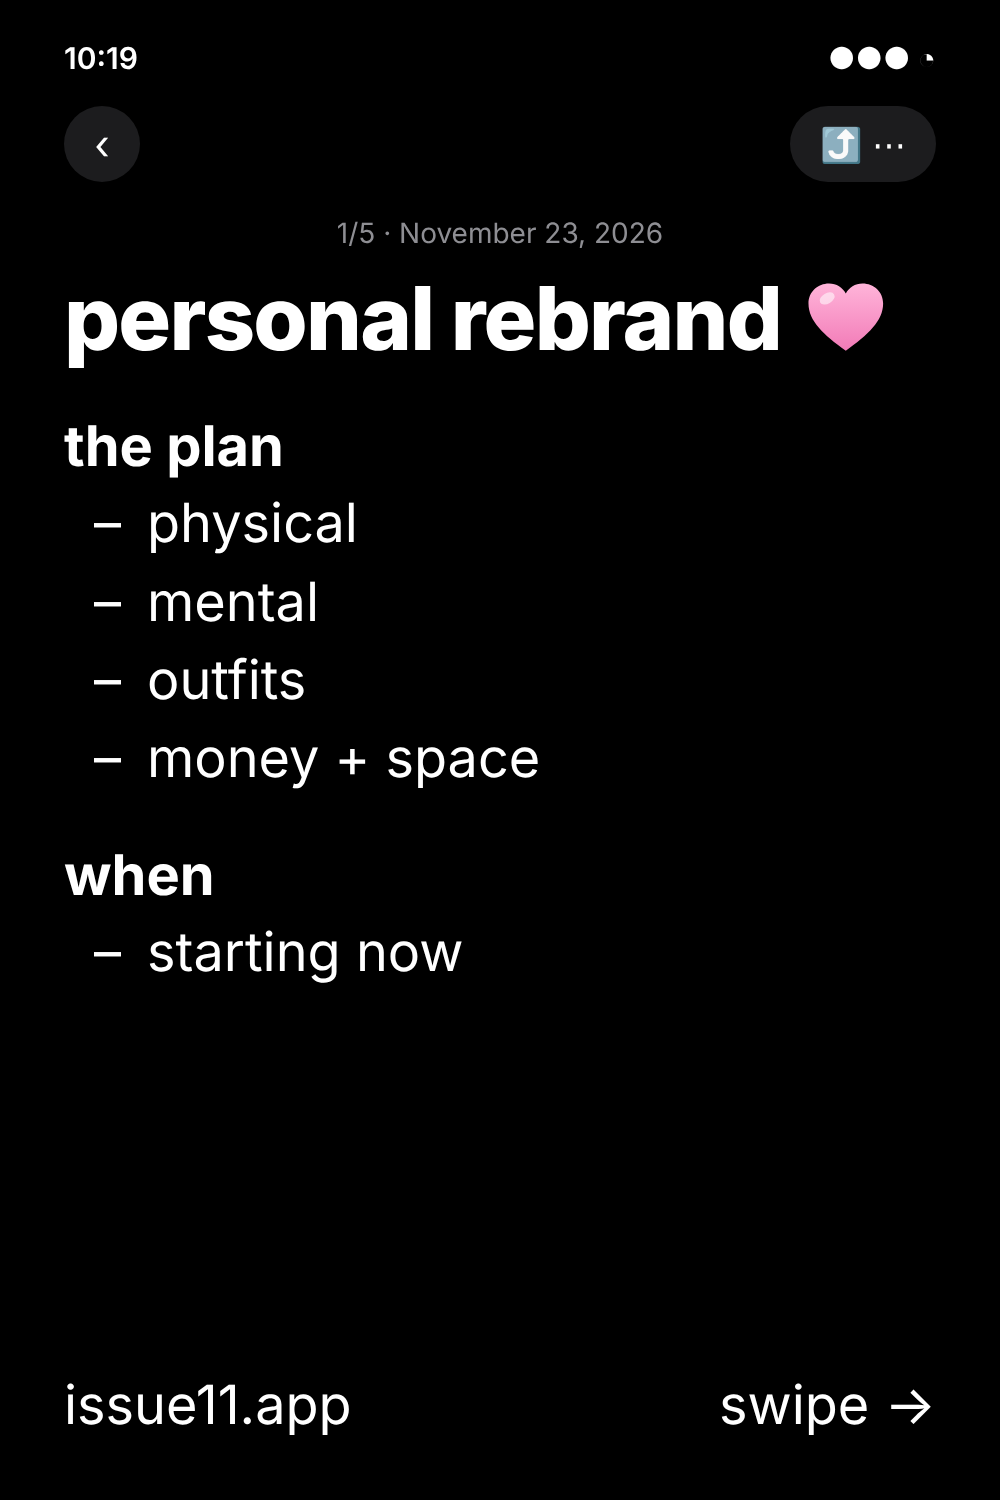
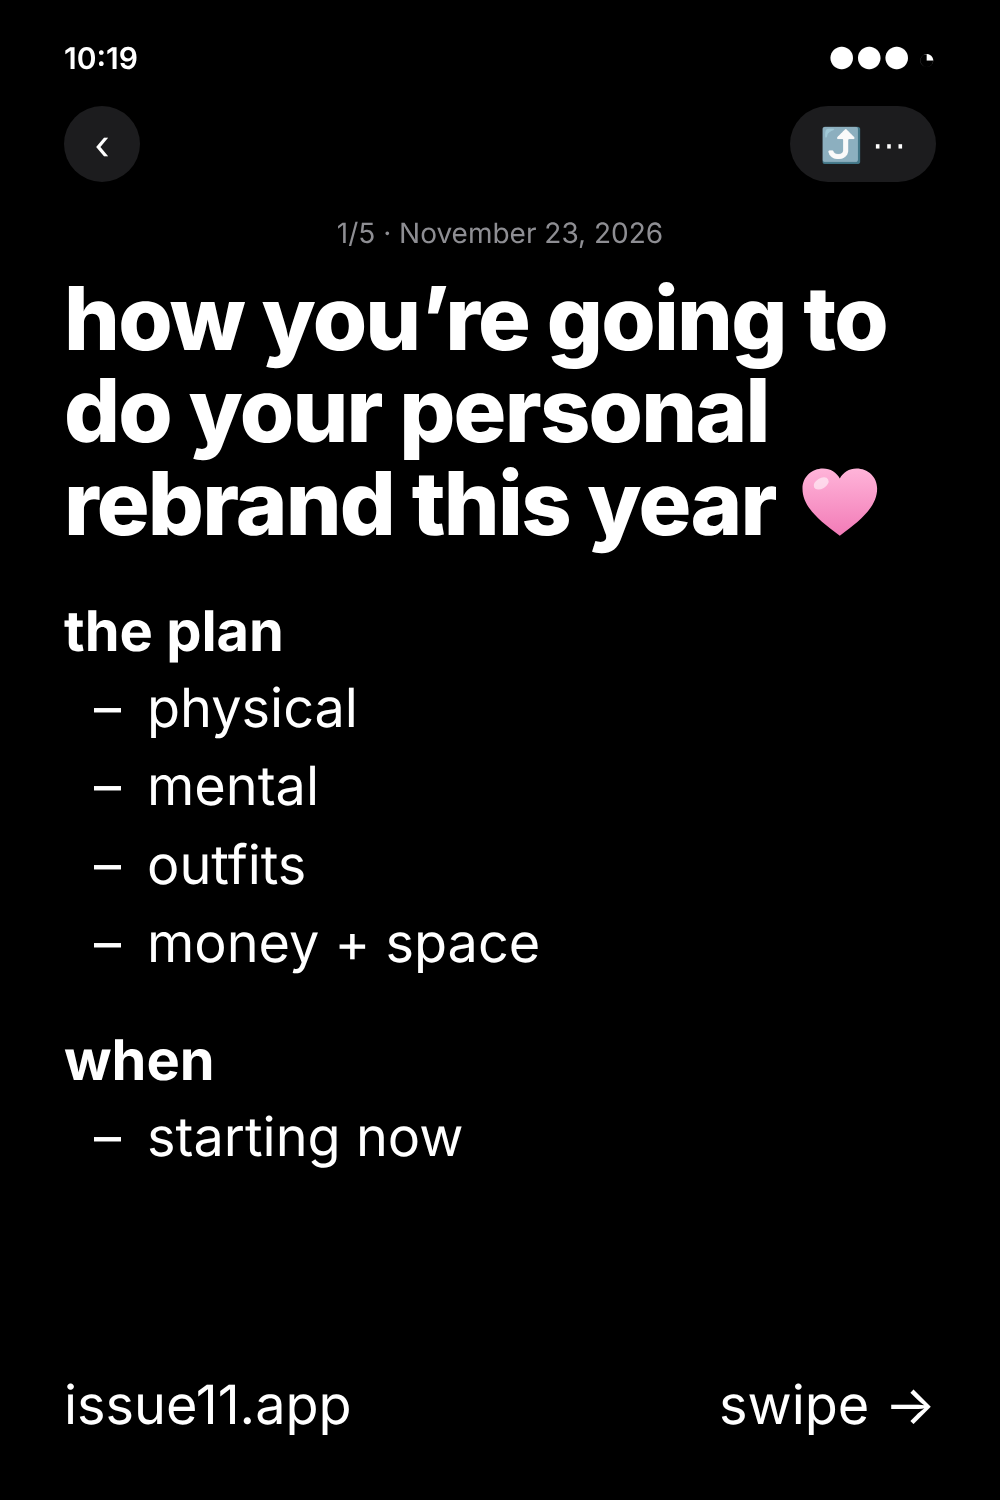
Pinterest: hook title on personal rebrand carousel cover
Claude-Session: https://claude.ai/code/session_01YGtmQppBCBt9nypMHzxSp1

Changed region(s): [[0.062, 0.184, 0.899, 0.6747], [0.062, 0.6747, 0.465, 0.7973], [0.806, 0.3067, 0.899, 0.368]]

diff --git a/drafts/pinterest/carousels/PRC-1.dc.html b/drafts/pinterest/carousels/PRC-1.dc.html
@@ -16,7 +16,7 @@
   <div style="display:flex; justify-content:space-between; font-size:30px; font-weight:600"><span>10:19</span><span>●●● ◔</span></div>
   <div style="display:flex; justify-content:space-between; margin-top:30px"><span style="width:76px; height:76px; border-radius:50%; background:#1c1c1e; display:flex; align-items:center; justify-content:center; font-size:40px">‹</span><span style="height:76px; padding:0 30px; border-radius:40px; background:#1c1c1e; display:flex; align-items:center; font-size:34px">⤴ ⋯</span></div>
   <p style="margin:34px 0 0; text-align:center; font-size:28px; color:#8e8e93">1/5 · November 23, 2026</p>
-  <h1 style="margin:22px 0 0; font-size:88px; font-weight:800; letter-spacing:-0.02em; line-height:1.05">personal rebrand<svg viewBox="0 0 64 58" style="height:.82em;width:auto;vertical-align:-.04em;margin-left:.28em"><defs><linearGradient id="hg" x1="0" y1="0" x2="0" y2="1"><stop offset="0" stop-color="#FFB4D9"/><stop offset="1" stop-color="#F27BB7"/></linearGradient></defs><path d="M32 56C14 43 2 32 2 18 2 8.6 9.6 2 18.5 2 24.6 2 29.4 5.2 32 10 34.6 5.2 39.4 2 45.5 2 54.4 2 62 8.6 62 18 62 32 50 43 32 56Z" fill="url(#hg)"/><ellipse cx="17" cy="14" rx="6.5" ry="4.2" fill="#fff" opacity=".55" transform="rotate(-30 17 14)"/></svg></h1>
+  <h1 style="margin:22px 0 0; font-size:88px; font-weight:800; letter-spacing:-0.02em; line-height:1.05">how you’re going to do your personal rebrand this year<svg viewBox="0 0 64 58" style="height:.82em;width:auto;vertical-align:-.04em;margin-left:.28em"><defs><linearGradient id="hg" x1="0" y1="0" x2="0" y2="1"><stop offset="0" stop-color="#FFB4D9"/><stop offset="1" stop-color="#F27BB7"/></linearGradient></defs><path d="M32 56C14 43 2 32 2 18 2 8.6 9.6 2 18.5 2 24.6 2 29.4 5.2 32 10 34.6 5.2 39.4 2 45.5 2 54.4 2 62 8.6 62 18 62 32 50 43 32 56Z" fill="url(#hg)"/><ellipse cx="17" cy="14" rx="6.5" ry="4.2" fill="#fff" opacity=".55" transform="rotate(-30 17 14)"/></svg></h1>
   
   <p style="margin:48px 0 6px; font-weight:700; font-size:56px">the plan</p><div style="padding-left:30px; font-size:54px; line-height:1.3"><div style="display:flex; gap:26px; margin:8px 0"><span>–</span><span>physical</span></div><div style="display:flex; gap:26px; margin:8px 0"><span>–</span><span>mental</span></div><div style="display:flex; gap:26px; margin:8px 0"><span>–</span><span>outfits</span></div><div style="display:flex; gap:26px; margin:8px 0"><span>–</span><span>money + space</span></div></div><p style="margin:48px 0 6px; font-weight:700; font-size:56px">when</p><div style="padding-left:30px; font-size:54px; line-height:1.3"><div style="display:flex; gap:26px; margin:8px 0"><span>–</span><span>starting now</span></div></div>
 <p style="position:absolute; left:64px; bottom:60px; margin:0; font-size:54px; line-height:1.3">issue11.app</p><p style="position:absolute; right:64px; bottom:60px; margin:0; font-size:54px; line-height:1.3">swipe →</p></div>

diff --git a/drafts/pinterest/color-test/PRC-1.dc.html b/drafts/pinterest/color-test/PRC-1.dc.html
@@ -16,7 +16,7 @@
   <div style="display:flex; justify-content:space-between; font-size:30px; font-weight:600"><span>10:19</span><span>●●● ◔</span></div>
   <div style="display:flex; justify-content:space-between; margin-top:30px"><span style="width:76px; height:76px; border-radius:50%; background:#1c1c1e; display:flex; align-items:center; justify-content:center; font-size:40px">‹</span><span style="height:76px; padding:0 30px; border-radius:40px; background:#1c1c1e; display:flex; align-items:center; font-size:34px">⤴ ⋯</span></div>
   <p style="margin:34px 0 0; text-align:center; font-size:28px; color:#8e8e93">1/5 · November 23, 2026</p>
-  <h1 style="margin:22px 0 0; font-size:88px; font-weight:800; letter-spacing:-0.02em; line-height:1.05">personal rebrand<svg viewBox="0 0 64 58" style="height:.82em;width:auto;vertical-align:-.04em;margin-left:.28em"><defs><linearGradient id="hg" x1="0" y1="0" x2="0" y2="1"><stop offset="0" stop-color="#FFB4D9"/><stop offset="1" stop-color="#F27BB7"/></linearGradient></defs><path d="M32 56C14 43 2 32 2 18 2 8.6 9.6 2 18.5 2 24.6 2 29.4 5.2 32 10 34.6 5.2 39.4 2 45.5 2 54.4 2 62 8.6 62 18 62 32 50 43 32 56Z" fill="url(#hg)"/><ellipse cx="17" cy="14" rx="6.5" ry="4.2" fill="#fff" opacity=".55" transform="rotate(-30 17 14)"/></svg></h1>
+  <h1 style="margin:22px 0 0; font-size:88px; font-weight:800; letter-spacing:-0.02em; line-height:1.05">how you’re going to do your personal rebrand this year<svg viewBox="0 0 64 58" style="height:.82em;width:auto;vertical-align:-.04em;margin-left:.28em"><defs><linearGradient id="hg" x1="0" y1="0" x2="0" y2="1"><stop offset="0" stop-color="#FFB4D9"/><stop offset="1" stop-color="#F27BB7"/></linearGradient></defs><path d="M32 56C14 43 2 32 2 18 2 8.6 9.6 2 18.5 2 24.6 2 29.4 5.2 32 10 34.6 5.2 39.4 2 45.5 2 54.4 2 62 8.6 62 18 62 32 50 43 32 56Z" fill="url(#hg)"/><ellipse cx="17" cy="14" rx="6.5" ry="4.2" fill="#fff" opacity=".55" transform="rotate(-30 17 14)"/></svg></h1>
   
   <p style="margin:48px 0 6px; font-weight:700; font-size:56px">the plan</p><div style="padding-left:30px; font-size:54px; line-height:1.3"><div style="display:flex; gap:26px; margin:8px 0"><span>–</span><span>physical</span></div><div style="display:flex; gap:26px; margin:8px 0"><span>–</span><span>mental</span></div><div style="display:flex; gap:26px; margin:8px 0"><span>–</span><span>outfits</span></div><div style="display:flex; gap:26px; margin:8px 0"><span>–</span><span>money + space</span></div></div><p style="margin:48px 0 6px; font-weight:700; font-size:56px">when</p><div style="padding-left:30px; font-size:54px; line-height:1.3"><div style="display:flex; gap:26px; margin:8px 0"><span>–</span><span>starting now</span></div></div>
 <p style="position:absolute; left:64px; bottom:60px; margin:0; font-size:54px; line-height:1.3">issue11.app</p><p style="position:absolute; right:64px; bottom:60px; margin:0; font-size:54px; line-height:1.3">swipe →</p></div>

diff --git a/drafts/pinterest/color-test/rebrand_car_gen.py b/drafts/pinterest/color-test/rebrand_car_gen.py
@@ -12,7 +12,7 @@ def note(k,i,title,secs):
     if i<5: inner=inner[:-6]+f'<p style="position:absolute; right:64px; bottom:60px; margin:0; font-size:{fs}px; line-height:1.3">swipe →</p></div>'  # Megan: "Remember it's a carousel" → swipe cue on 1–4
     P[k]=ns['doc'](f'Personal rebrand carousel · slide {i}',inner,bg)
 HEART='<svg viewBox="0 0 64 58" style="height:.82em;width:auto;vertical-align:-.04em;margin-left:.28em"><defs><linearGradient id="hg" x1="0" y1="0" x2="0" y2="1"><stop offset="0" stop-color="#FFB4D9"/><stop offset="1" stop-color="#F27BB7"/></linearGradient></defs><path d="M32 56C14 43 2 32 2 18 2 8.6 9.6 2 18.5 2 24.6 2 29.4 5.2 32 10 34.6 5.2 39.4 2 45.5 2 54.4 2 62 8.6 62 18 62 32 50 43 32 56Z" fill="url(#hg)"/><ellipse cx="17" cy="14" rx="6.5" ry="4.2" fill="#fff" opacity=".55" transform="rotate(-30 17 14)"/></svg>'  # drawn 🩷 (light pink heart) so it looks the same everywhere (Megan: "Make it match this one: 🩷")
-note('PRC-1',1,'personal rebrand'+HEART,[("the plan",["physical","mental","outfits","money + space"]),("when",["starting now"])])
+note('PRC-1',1,"how you’re going to do your personal rebrand this year"+HEART,[("the plan",["physical","mental","outfits","money + space"]),("when",["starting now"])])
 note('PRC-2',2,'physical',[("the list",["pilates 3x per week","daily hot girl walks","drink water!!!","skincare routine every night and morning","nails and hair always done","8 hrs of sleep minimum"])])
 note('PRC-3',3,'mental',[("the list",["no more people pleasing","journal before opening my phone","unfollow anyone that makes me feel not good enough","do 1 hard thing a week"])])
 note('PRC-4',4,'outfits',[("the list",["get rid of what i don't wear","find my signature scent","invest in cute pajama sets","buy 1 investment piece (shoes or bag)"])])
